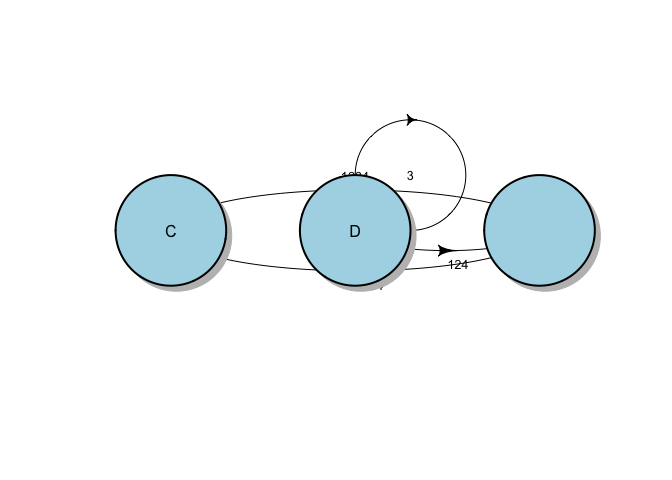
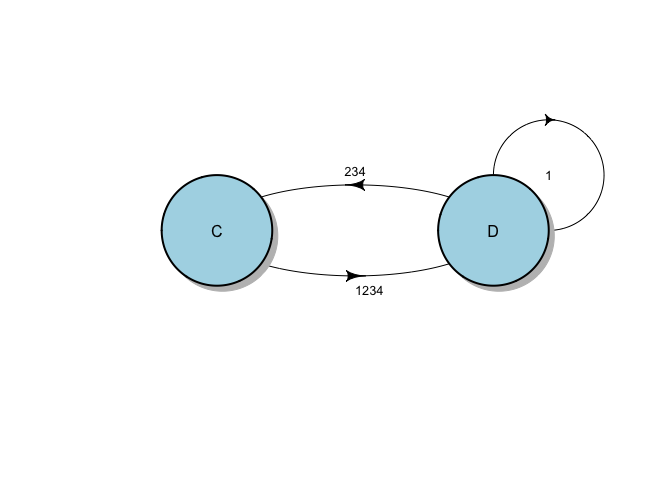
updated readme

diff --git a/README.md b/README.md
@@ -63,59 +63,53 @@ summary(result)
 #>                                     
 #> Gentic Algorithm Settings: 
 #> Population size       =  75 
-#> Number of generations =  779 
+#> Number of generations =  150 
 #> Elitism               =  4 
 #> Crossover probability =  0.8 
 #> Mutation probability  =  0.1 
 #> 
 #> Finite State Machine Settings: 
 #> Actions =  2 
-#> States  =  3 
+#> States  =  2 
 #> 
 #> Results: 
 #> 
 #> Iterations For This Run              = 30 
-#> Training Data Fitness Function Value = 1 
+#> Training Data Fitness Function Value = 0.717 
 #> Test Data Fitness Function Value     = No test data provided. Provide some to get more accurate estimation of generalization power. 
 #> 
 #> (Bit String Form) of Solution: 
-#>  x1  x2  x3  x4  x5  x6  x7  x8  x9 x10 x11 x12 x13 x14 x15 x16 x17 x18 
-#>   0   0   1   1   1   1   1   0   0   1   1   1   1   0   0   1   1   0 
-#> x19 x20 x21 x22 x23 x24 x25 x26 x27 
-#>   1   1   0   1   1   1   1   0   0 
+#>  x1  x2  x3  x4  x5  x6  x7  x8  x9 x10 
+#>   0   1   1   0   0   1   1   1   1   1 
 #> 
 #> State Matrix of Solution: 
 #>      my.decision1FALSE:other.decision1FALSE
-#> [1,]                                      3
-#> [2,]                                      3
-#> [3,]                                      1
+#> [1,]                                      2
+#> [2,]                                      2
 #>      my.decision1TRUE:other.decision1FALSE
-#> [1,]                                     3
-#> [2,]                                     3
-#> [3,]                                     1
+#> [1,]                                     2
+#> [2,]                                     1
 #>      my.decision1FALSE:other.decision1TRUE
-#> [1,]                                     3
-#> [2,]                                     2
-#> [3,]                                     1
+#> [1,]                                     2
+#> [2,]                                     1
 #>      my.decision1TRUE:other.decision1TRUE
-#> [1,]                                    3
-#> [2,]                                    3
-#> [3,]                                    1
+#> [1,]                                    2
+#> [2,]                                    1
 #> 
 #> Action Vector of Solution: 
-#> [1] 1 1 2
+#> [1] 1 2
 #> 
 #> Friendly Degeneracy Message:  
 #> 
 #> Variable Importance: 
 #> my.decision1FALSE:other.decision1FALSE 
-#>                                   98.9 
+#>                                    0.0 
 #>  my.decision1TRUE:other.decision1FALSE 
-#>                                   97.3 
+#>                                   98.0 
 #>  my.decision1FALSE:other.decision1TRUE 
-#>                                   95.0 
+#>                                  100.0 
 #>   my.decision1TRUE:other.decision1TRUE 
-#>                                  100.0
+#>                                   93.4
 plot(result, action_label = c("C", "D"))
 ```
 
@@ -303,6 +297,7 @@ Check out the documentation for the main function of the package to learn about 
 #>                         other.decision1 = sample(1:0, 10000, TRUE))
 #>      (result <- evolve_model(cdata, cv=FALSE))
 #>      summary(result)
+#>      plot(result, action_label = c("C", "D"))
 #>      
 #>      # In scripts, it can makes sense to set parallel to
 #>      # 'as.logical(Sys.info()['sysname'] != 'Windows')'.
